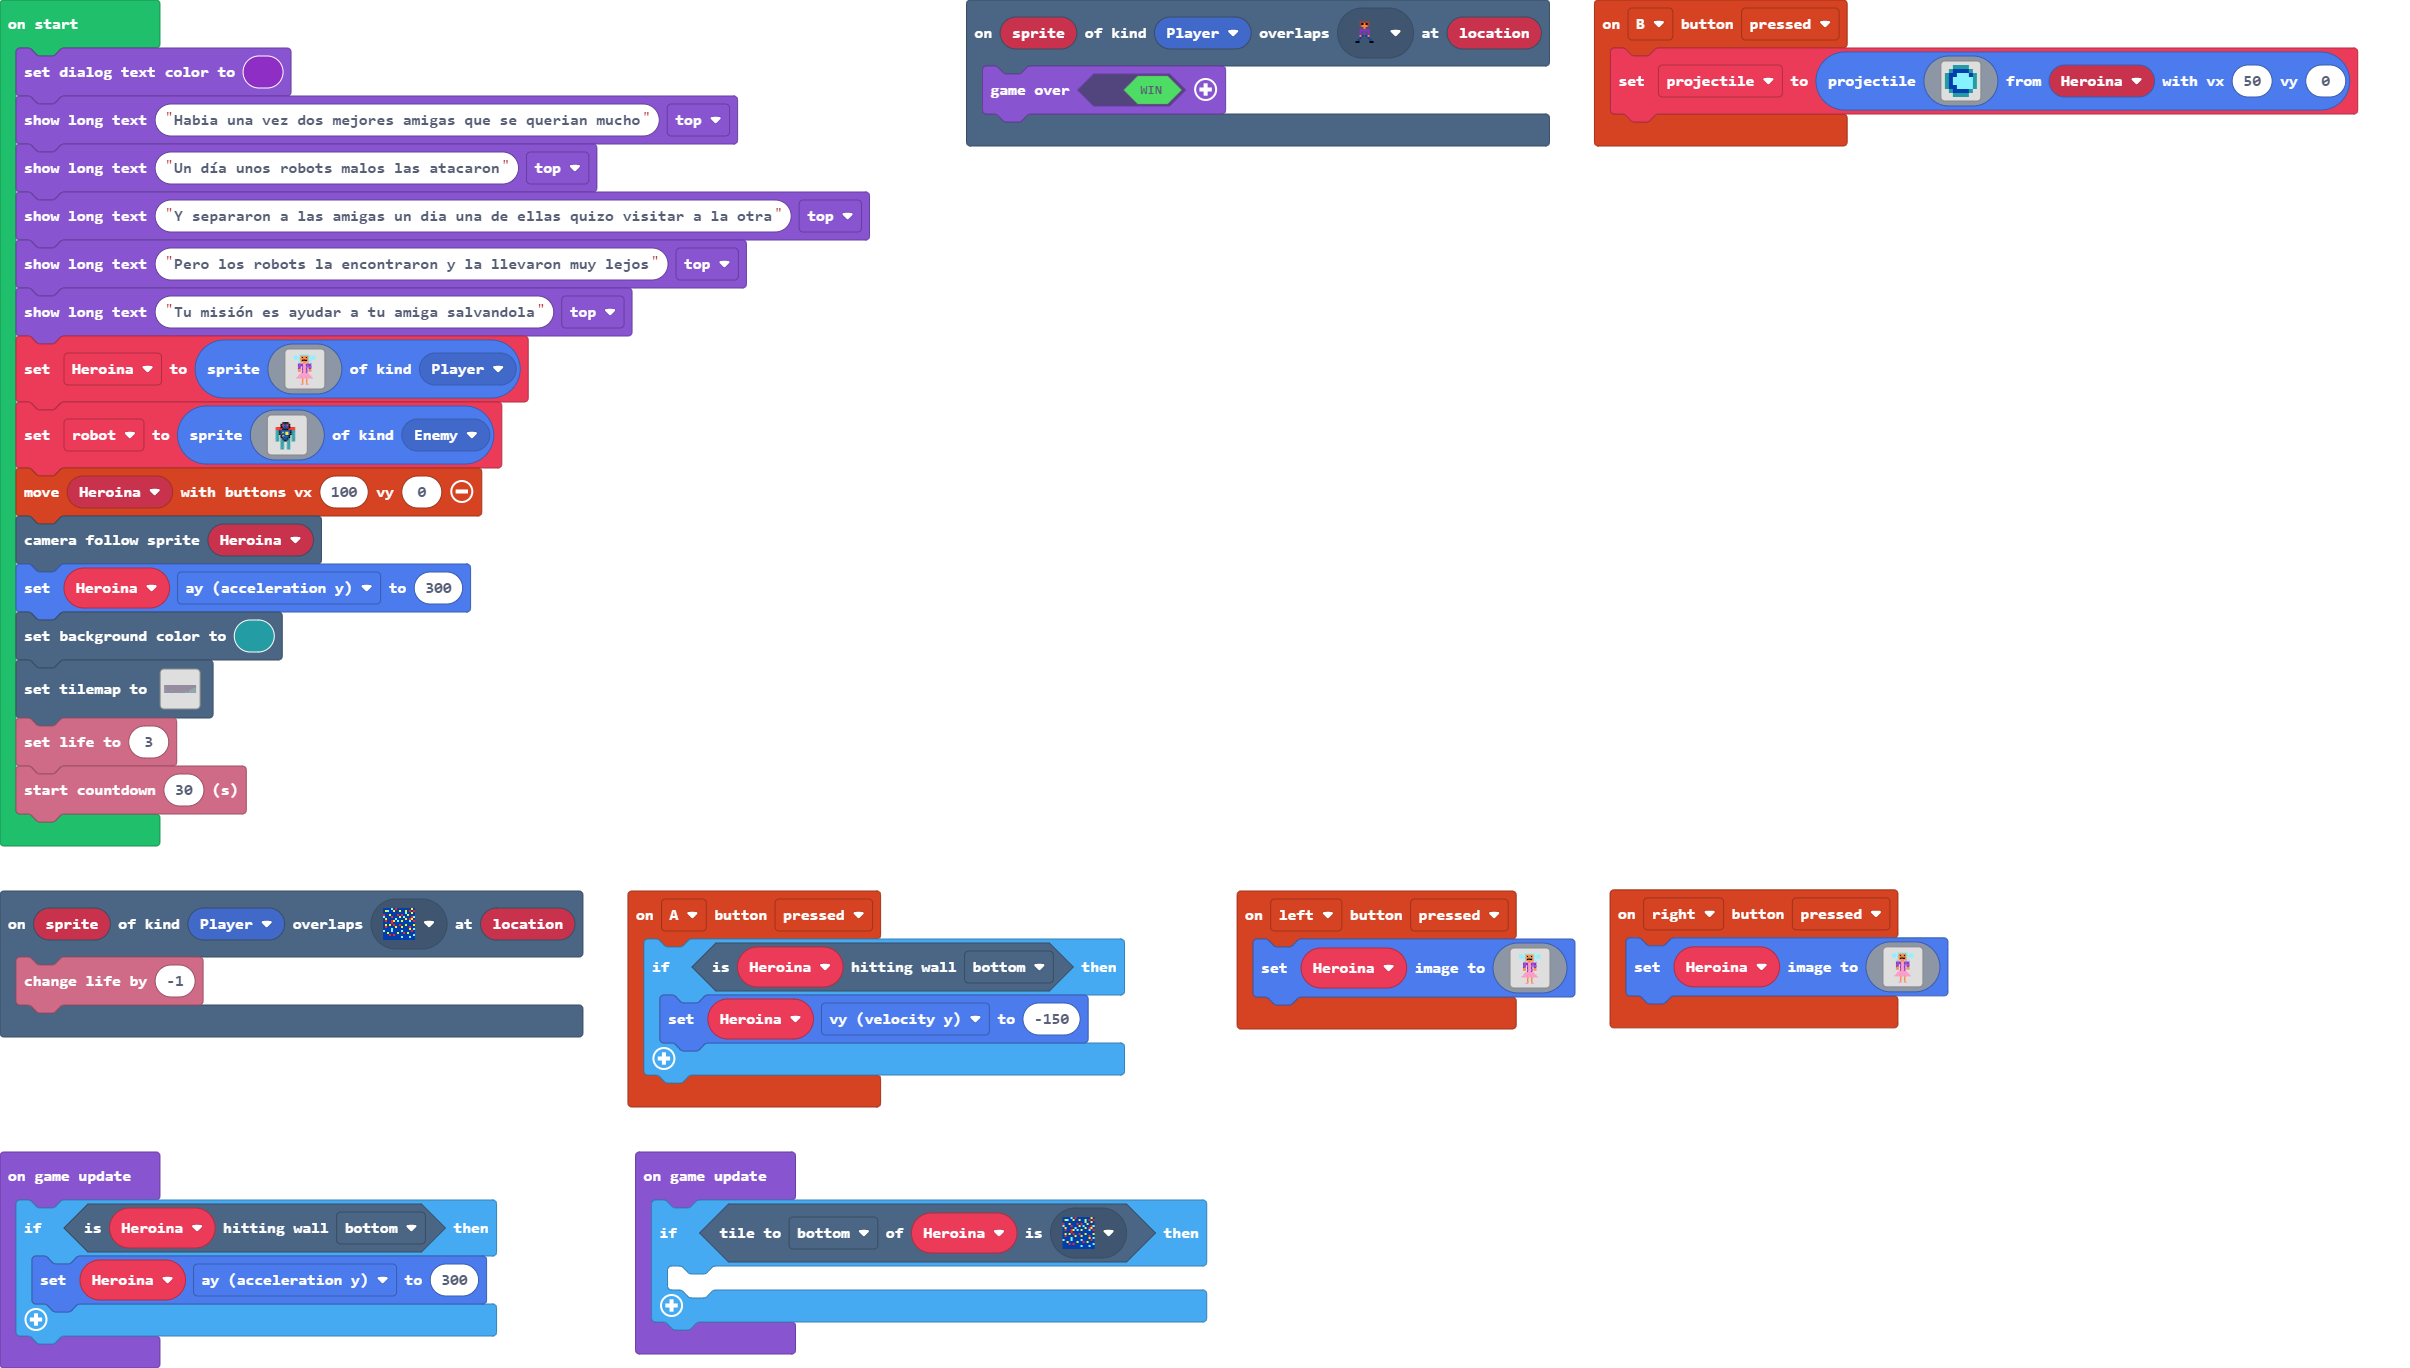
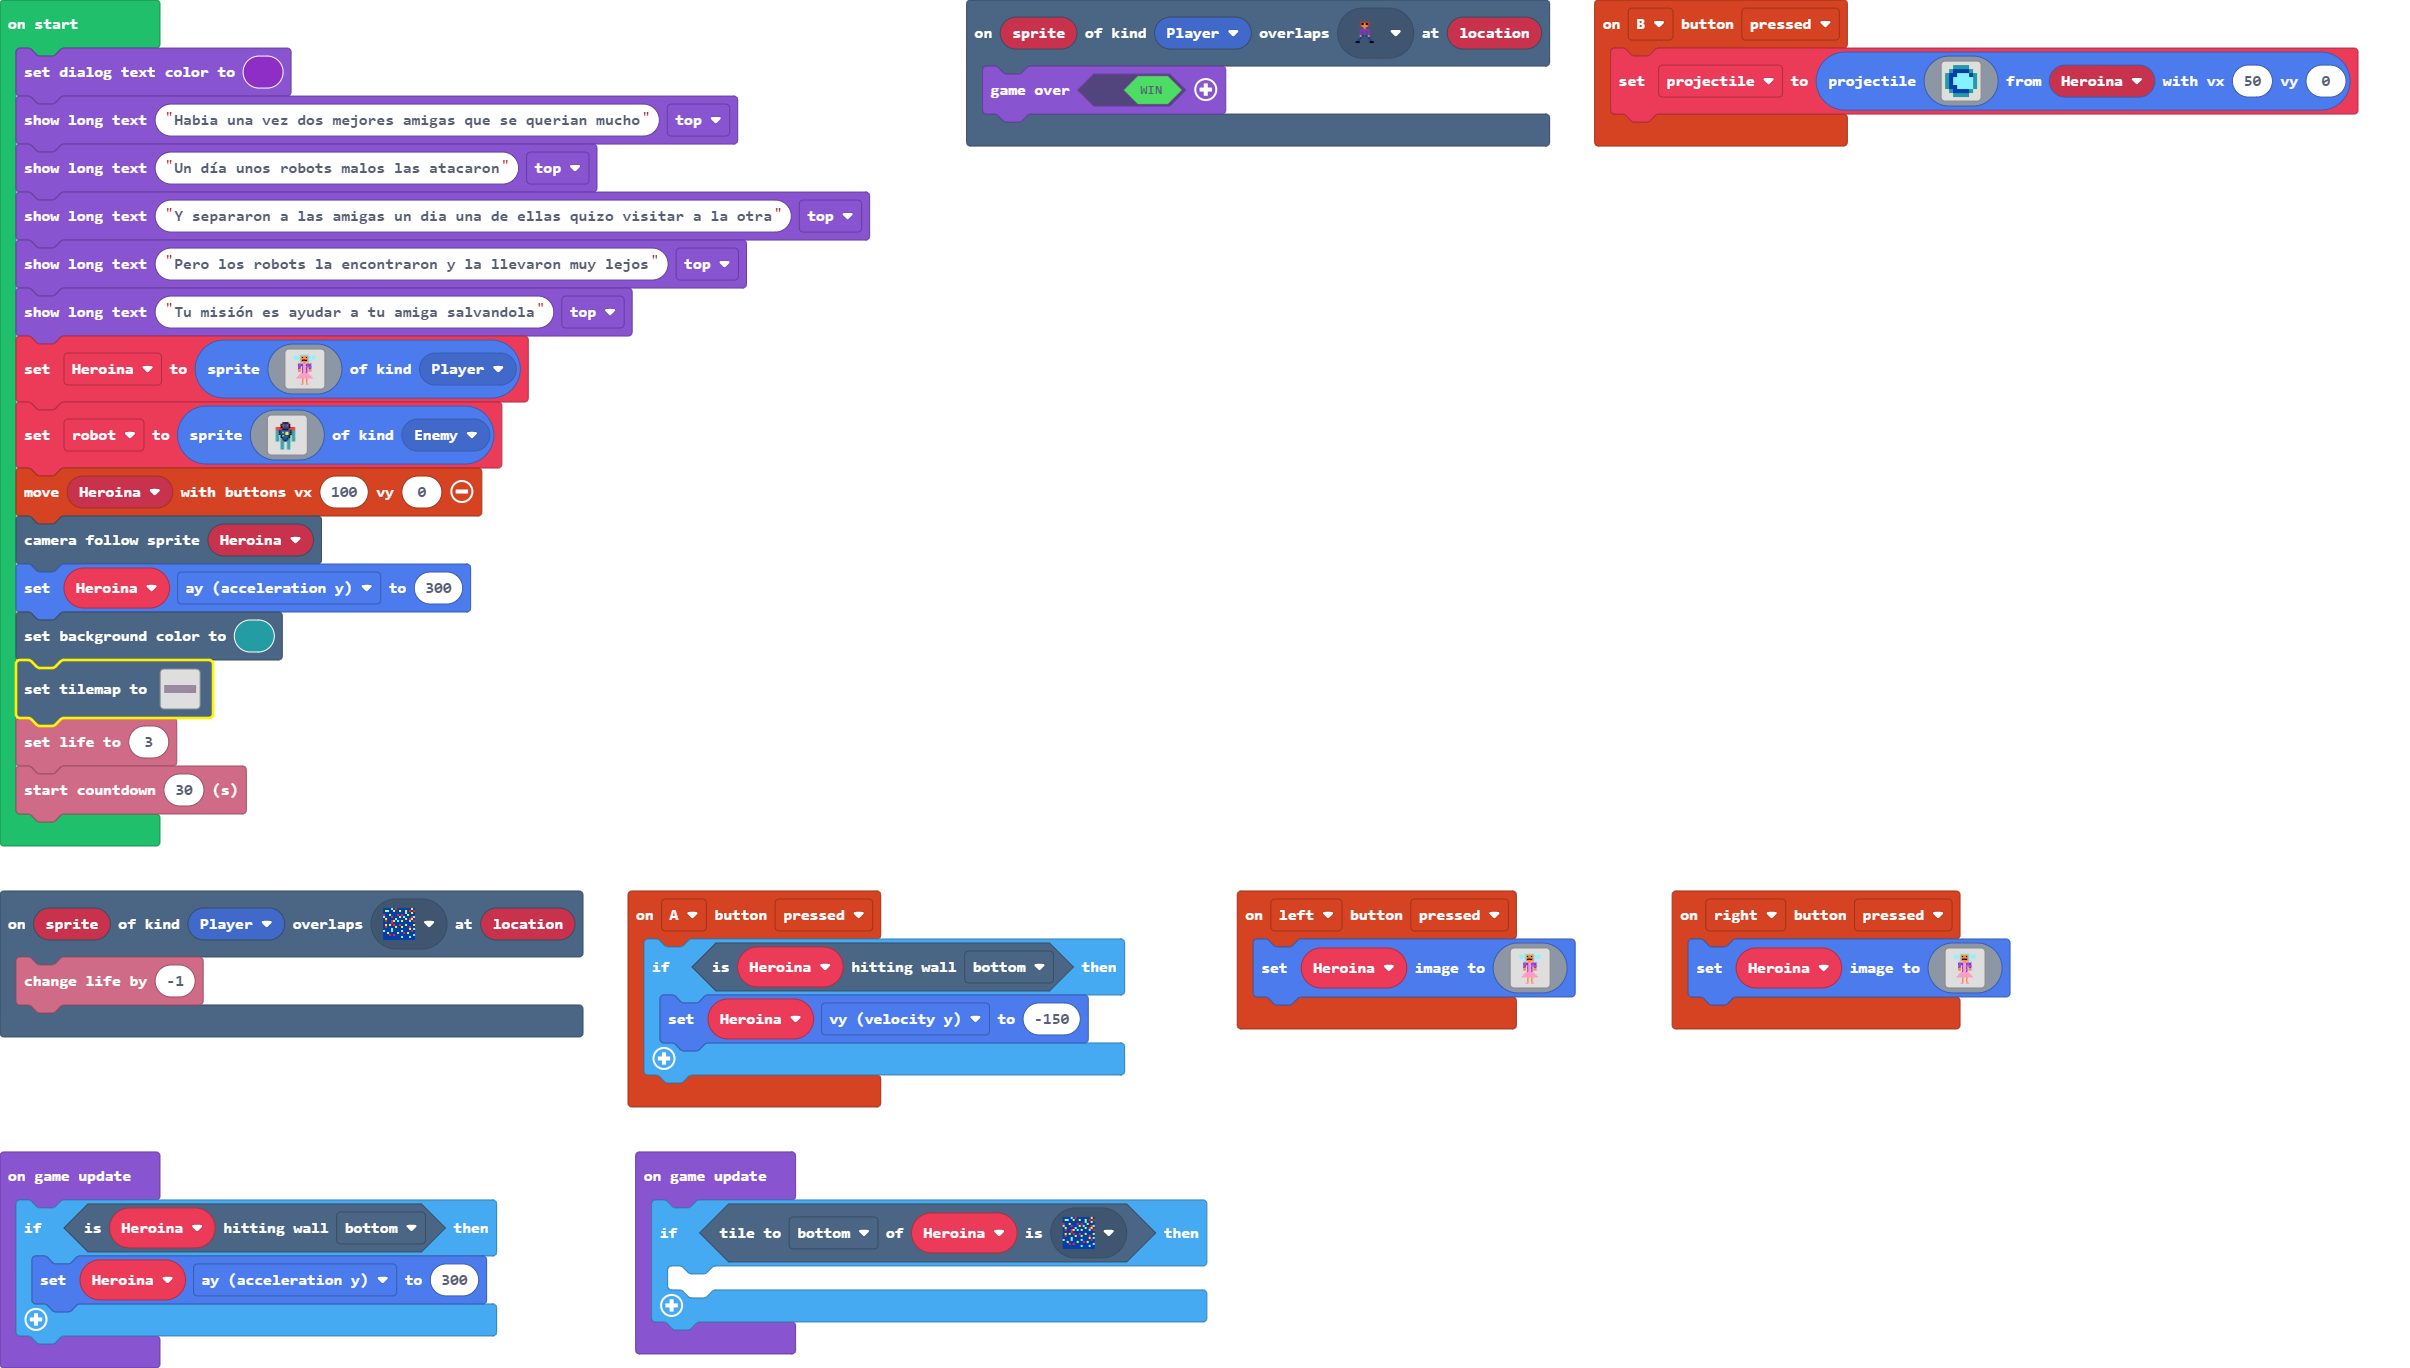
modifique mi mapa

Changed region(s): [[0.6535, 0.6447, 0.8402, 0.7675], [0.0311, 0.4605, 0.0934, 0.4912], [0.0311, 0.5219, 0.0622, 0.5526]]

diff --git a/main.ts b/main.ts
@@ -140,7 +140,7 @@ controller.moveSprite(Heroina, 100, 0)
 scene.cameraFollowSprite(Heroina)
 Heroina.ay = 300
 scene.setBackgroundColor(6)
-tiles.setTilemap(tiles.createTilemap(hex`4000100004040404040404040404040404040404040404040404040404040404040404040404040404040404040404040404040404040404040404040404040404040404040404040404040404040404040404040404040404040404040404040404040404040404040404040404040404040404040404040404040404040404040404040404040404040404040404040404040404040404040404040404040404040404040404040404040404040404040404040404040404040404040404040404040404040404040404040404040404040404040404040404040404040404040404040404040404040404040404040404040404040404040404040404040404040404040404040404040404040404040404040404040404040404040404040404040404040404040404040404040404040404040404040404040404040404040404020404040404040404040404040404040404040404040404040404040404040404040404040404040404040404040404040404040404040404040404040101010104040404040404040404040404040404040404040404040404040404040404040404040404040404040404040404040404040404040404040404010101010101040404040404040404040404040404040404040404040404040404040404040404040404040404040404040404040404040404040404040401010101010101010404040404040404040404040404040404040404040404040404040404040404040404040404040404040404040404040404040404040101010101010101010104040404040404040404040404040404040404040404040404040404040404040404040404040404040404040404040404040404040101010101010101010101040404040404040404040404040404040404040404040404040404040404040404040404040404010404040404040404040404010101010101010101010101010101010101010404040404040404010101010101010404040404040404040404040404040404040404040101040404040404010101010101010101010101010104040404040404040404040401040404040404040404040404040404040404040404040404010404040401010404040404010101010101010101010101010101040404040404010404040404040404040404040404040404040404040104010404010401040404040404010104040404010101010101010101010101010101010404040404040404040104040404040404040404040404040404040404040404040404040404040404040101040404010101010101010101010101010101010103030303030303030303030303030303030303030303010101010101030303030303030303030303030301010101010101010101010101010101010101010101`, img`
+tiles.setTilemap(tiles.createTilemap(hex`4000100003030303030303030303030303030303030303030303030303030303030303030303030303030303030303030303030303030303030303030303030303030303030303030303030303030303030303030303030303030303030303030303030303030303030303030303030303030303030303030303030303030303030303030303030303030303030303030303030303030303030303030303030303030303030303030303030303030303030303030303030303030303030303030303030303030303030303030303030303030303030303030303030303030303030303030303030303030303030303030303030303030303030303030303030303030303030303030303030303030303030303030303030303030303030303030303030303030303030303030303030303030303030303030303030303030303030303010303030303030303030303030303030303030303030303030303030303030303030303030303030303030303030303030303030303030303030303030404040403030303030303030303030303030303030303030303030303030303030303030303030303030303030303030303030303030303030303030303040404040404030303030303030303030303030303030303030303030303030303030303030303030303030303030303030303030303030303030303030304040404040404040303030303030303030303030303030303030303030303030303030303030303030303030303030303030303030303030303030303030404040404040404040403030303030303030303030303030303030303030303030303030303030303030303030303030303030303030303030303030303030404040404040404040404030303030303030303030303030303030303030303030303030303030303030303030303030303040303030303030303030303040404040404040404040404040404040404040303030303030303040404040404040303030303030303030303030303030303030303030404030303030303040404040404040404040404040403030303030303030303030304030303030303030303030303030303030303030303030303040303030304040303030303040404040404040404040404040404030303030303040303030303030303030303030303030303030303030403040303040304030303030303040403030303040404040404040404040404040404040303030303030303030403030303030303030303030303030303030303030303030303030303030303030404030303040404040404040404040404040404040402020202020202020202020202020202020202020202040404040404020202020202020202020202020204040404040404040404040404040404040404040404`, img`
     . . . . . . . . . . . . . . . . . . . . . . . . . . . . . . . . . . . . . . . . . . . . . . . . . . . . . . . . . . . . . . . . 
     . . . . . . . . . . . . . . . . . . . . . . . . . . . . . . . . . . . . . . . . . . . . . . . . . . . . . . . . . . . . . . . . 
     . . . . . . . . . . . . . . . . . . . . . . . . . . . . . . . . . . . . . . . . . . . . . . . . . . . . . . . . . . . . . . . . 
@@ -157,7 +157,7 @@ tiles.setTilemap(tiles.createTilemap(hex`400010000404040404040404040404040404040
     . . . . . . 2 . . . . . . . . . . . . . . . . . . . . . 2 . 2 . . 2 . 2 . . . . . . 2 2 . . . . 2 2 2 2 2 2 2 2 2 2 2 2 2 2 2 2 
     . . . . . . . . . 2 . . . . . . . . . . . . . . . . . . . . . . . . . . . . . . . . 2 2 . . . 2 2 2 2 2 2 2 2 2 2 2 2 2 2 2 2 2 
     . . . . . . . . . . . . . . . . . . . . . . 2 2 2 2 2 2 . . . . . . . . . . . . . . 2 2 2 2 2 2 2 2 2 2 2 2 2 2 2 2 2 2 2 2 2 2 
-    `, [myTiles.transparency16,sprites.dungeon.greenOuterNorth0,myTiles.tile3,myTiles.tile4,myTiles.tile5], TileScale.Sixteen))
+    `, [myTiles.transparency16,myTiles.tile3,myTiles.tile4,myTiles.tile5,myTiles.tile6], TileScale.Sixteen))
 info.setLife(3)
 info.startCountdown(30)
 game.onUpdate(function () {

diff --git a/tilemap.g.ts b/tilemap.g.ts
@@ -14,6 +14,10 @@ namespace myTiles {
     export const tile5 = image.ofBuffer(hex``);
     //% fixedInstance jres blockIdentity=images._tile
     export const tile6 = image.ofBuffer(hex``);
+    //% fixedInstance jres blockIdentity=images._tile
+    export const tile7 = image.ofBuffer(hex``);
+    //% fixedInstance jres blockIdentity=images._tile
+    export const tile8 = image.ofBuffer(hex``);
 
 }
 // Auto-generated code. Do not edit.
